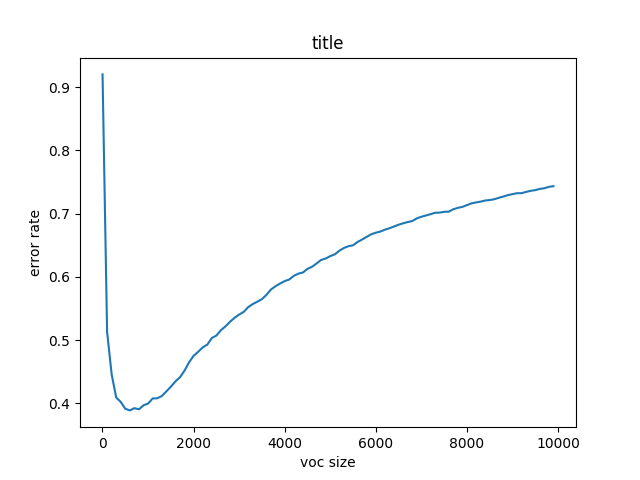
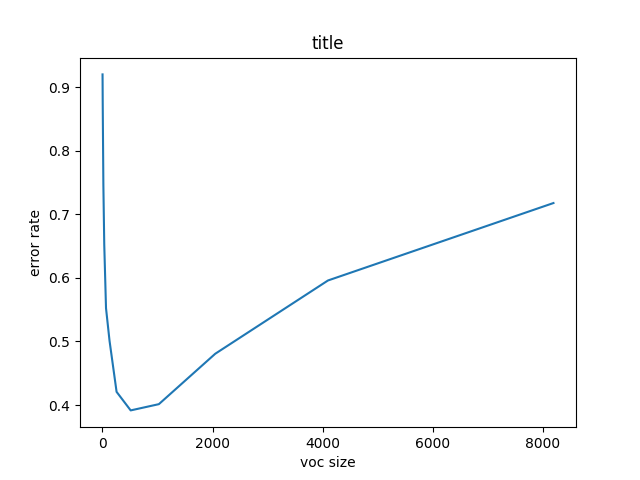
Update 03

diff --git a/group01/03/classifier_fixed.py b/group01/03/classifier_fixed.py
@@ -1,7 +1,6 @@
 from collections import namedtuple, Counter
 import numpy as np
 import matplotlib.pyplot as plt
-import pandas as pd
 
 
 
@@ -23,7 +22,11 @@ def get_voc(size):
     with open(voc_path, 'r') as f:
         all_vocs = [w.strip() for w in f.read().split('\n')]
         limit = size if size < len(all_vocs) else len(all_vocs)
-        voc = {v.strip():0 for v in all_vocs[:limit]}
+        # ===============(c)======================
+        # Here is the modification. We simply ensure that each word in the voc occur
+        # at least onces in each document
+        # =====================================
+        voc = {v.strip():1 for v in all_vocs[:limit]}
     return voc
 
 
@@ -60,7 +63,7 @@ def get_p_w_c(dataset, vocabulary):
     for x in dataset:
         class_, doc_length, frequencies = x
         if class_ not in p_w_c:
-            p_w_c[class_] = {'voc': vocabulary.copy(), 'doc_length': 0}
+            p_w_c[class_] = {'voc': vocabulary.copy(), 'doc_length': len(vocabulary.keys())}
         p_w_c[class_]['doc_length'] += doc_length
 
         for freq in frequencies:
@@ -70,6 +73,11 @@ def get_p_w_c(dataset, vocabulary):
 
     for class_, item in p_w_c.items():
         # convert word count to relative frequency
+        # ====================================(c)================================
+        # Since we manually add 1 occurrence for each word in each document.
+        # In order to normalize the relative word frequence, we must consider the document length as:
+        # original_length + num_vocabulary
+        # =========================================================================
         p_w_c[class_]['voc'] = {word: count/item['doc_length'] for word, count in item['voc'].items()}
     
     return p_w_c
@@ -97,11 +105,6 @@ def get_class_posterior(class_, word_frequencies, pc, p_w_c):
     """
     global b
     a = pc[class_] * np.prod([p_w_c[class_]['voc'][word] ** count for word, _, count in word_frequencies])
-    # There are cases where the denominators are zero.
-    # the reason for that is for the given input sentence, there are always classes that didn't contains at least one
-    # of the word in the input while training. 
-    # As a result, for each class c there is always a w from the input sentence so that p(w|c) = 0. This makes
-    # the denominator to be zero.
     b = np.sum([
         pc[c] * np.prod([p_w_c[c]['voc'][word] ** count for word, _, count in word_frequencies])
         for c in pc.keys()
@@ -143,11 +146,11 @@ def plot():
     plt.ylabel('error rate')
     plt.xlabel('voc size')
     plt.plot(xs, ys)
-    plt.savefig(f'plt_{max_voc}.png')
+    plt.savefig(f'plt_{max_voc}_fixed.png')
     plt.show()
 
 # ploat b)
-# plot()
+plot()
 
 # d)
 def confusion_matrix():
@@ -175,15 +178,13 @@ def confusion_matrix():
     for i in range(len(df)):
         false_positives.append(1 - df.iloc[i, i+1] / df.iloc[i,1:].values.sum())
     df.insert(1, 'false_positive', false_positives)
-    df.to_csv('confusion_matrix.csv')
     print(df)
     return df
-# d)
-# confusion_matrix()
+# m = confusion_matrix()
 
 
-# e)
 def spam():
+    global b
     b = 0
     voc = get_voc(400)
     pc, p_w_c = train('spam/spam.tr', voc)
@@ -191,4 +192,6 @@ def spam():
     predictions = [(ts.c, predict(ts.N_w, pc, p_w_c)) for ts in test_set]
     error_rate = len([None for x in predictions if x[0] != x[1]]) / len(test_set)
     print('spam classifier error rate:', error_rate)
+
+# e)
 spam()
